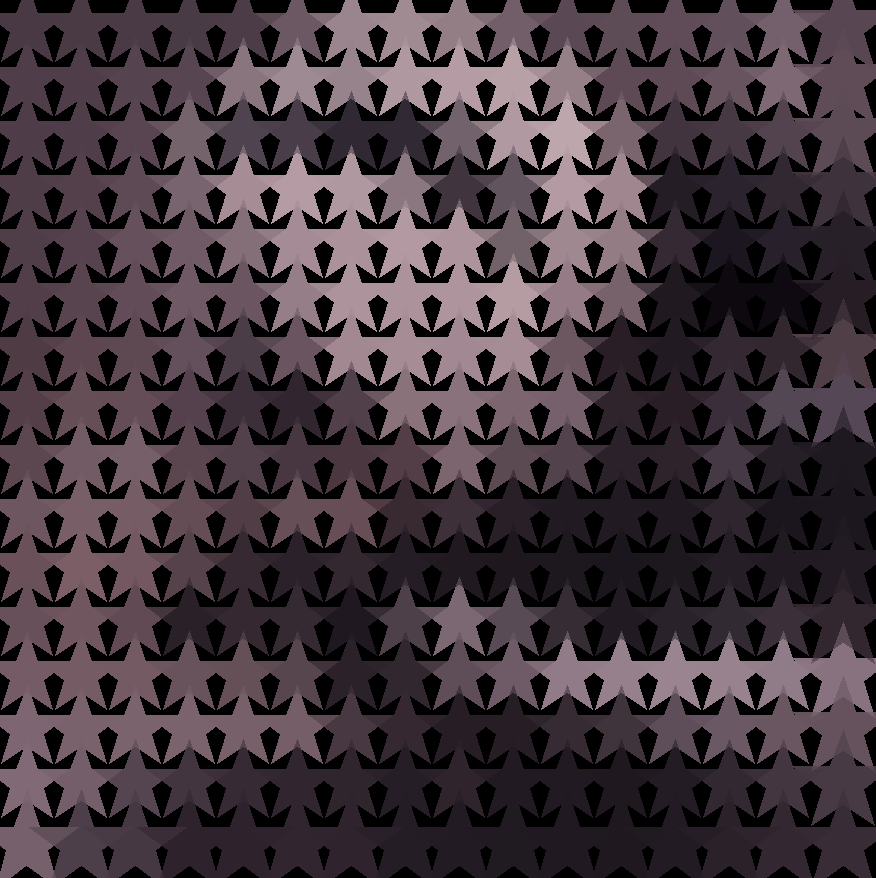
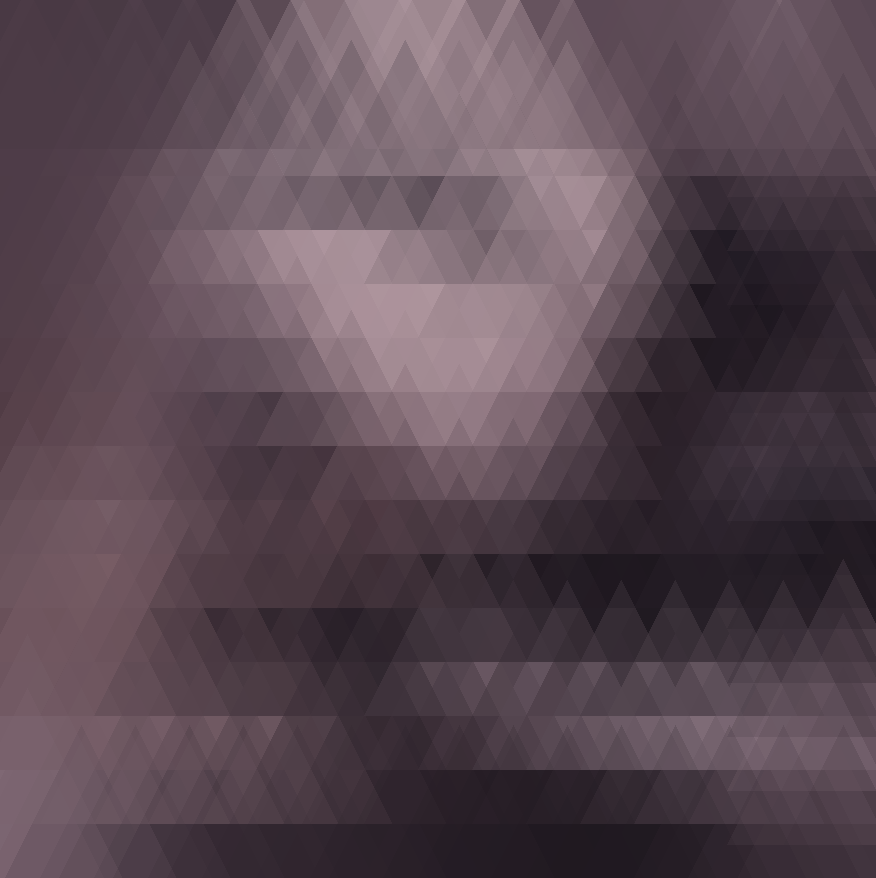
feat: ajout d'un affichage Matplotlib cote a cote pour comparer le rendu avec l'image original (mse compris)

diff --git a/main.py b/main.py
@@ -1,8 +1,28 @@
+import matplotlib.pyplot as plt
 from image_processor import image_to_color_rects, load_image_to_array, compute_mse, apply_grayscale
 from render import render_image, save_image
 import numpy as np
 import os
 
+def display_side_by_side(original_img_array, result_img_array, mse_score):
+    """Affiche l'image originale et le résultat côte à côte avec le score MSE."""
+    
+    # Créer une figure avec 1 ligne et 2 colonnes
+    fig, axes = plt.subplots(1, 2, figsize=(15, 7))
+    
+    # 1. Afficher l'image originale
+    axes[0].imshow(original_img_array)
+    axes[0].set_title('Image Originale')
+    axes[0].axis('off')  # Masquer les axes (plus propre)
+    
+    # 2. Afficher l'image du résultat
+    axes[1].imshow(result_img_array)
+    axes[1].set_title(f'Résultat de Reconstruction\n(MSE: {mse_score:.4f})')
+    axes[1].axis('off')
+    
+    # Afficher la fenêtre
+    plt.tight_layout()
+    plt.show()
 
 def main():
     """Fonction principale du programme."""
@@ -140,6 +160,7 @@ def main():
     mse = compute_mse(src, np.array(img_out))
     print("Image enregistrée :", output_path)
     print("MSE :", mse)
+    display_side_by_side(src, np.array(img_out), mse)
 
 if __name__ == "__main__":
     main()

diff --git a/image_processor.py b/image_processor.py
@@ -137,7 +137,7 @@ def compute_mse(a, b):
 
 __all__ = [
     "load_image_to_array",
-    "apply_grayscale"
+    "apply_grayscale",
     "image_to_color_rects",
     "compute_mse",
 ]
